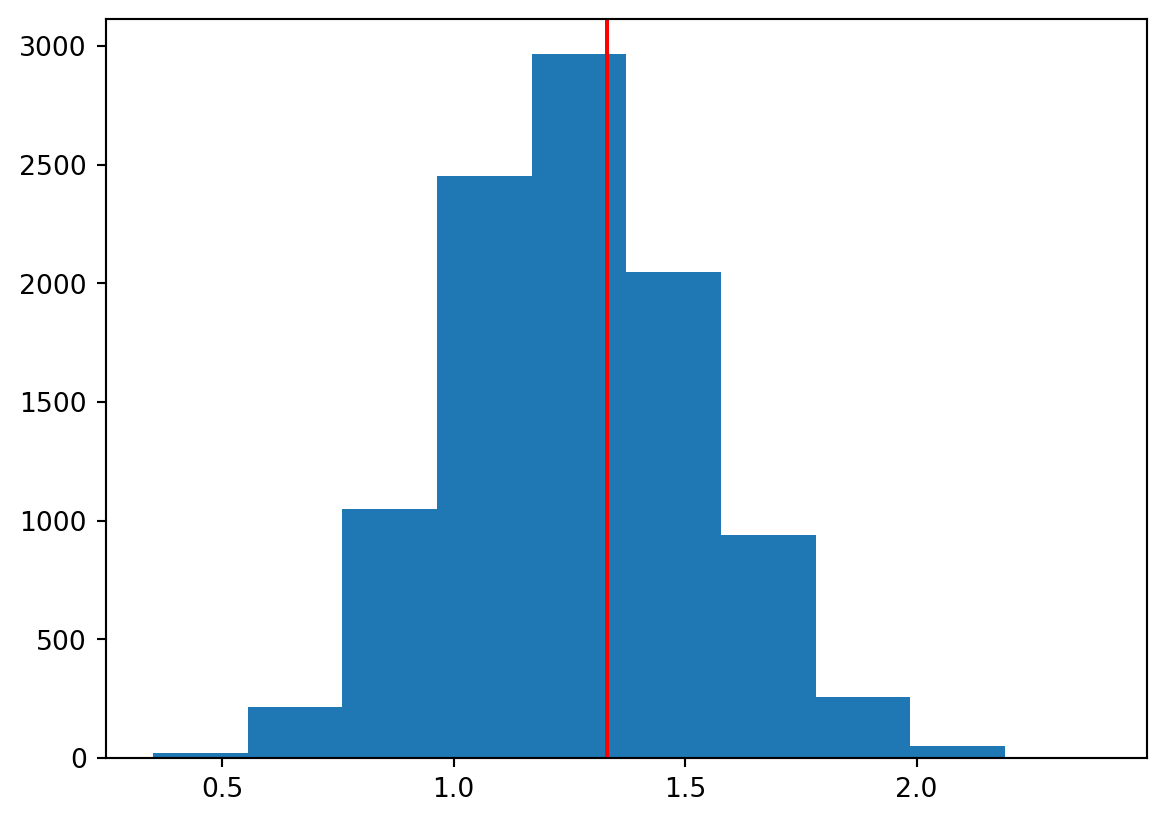
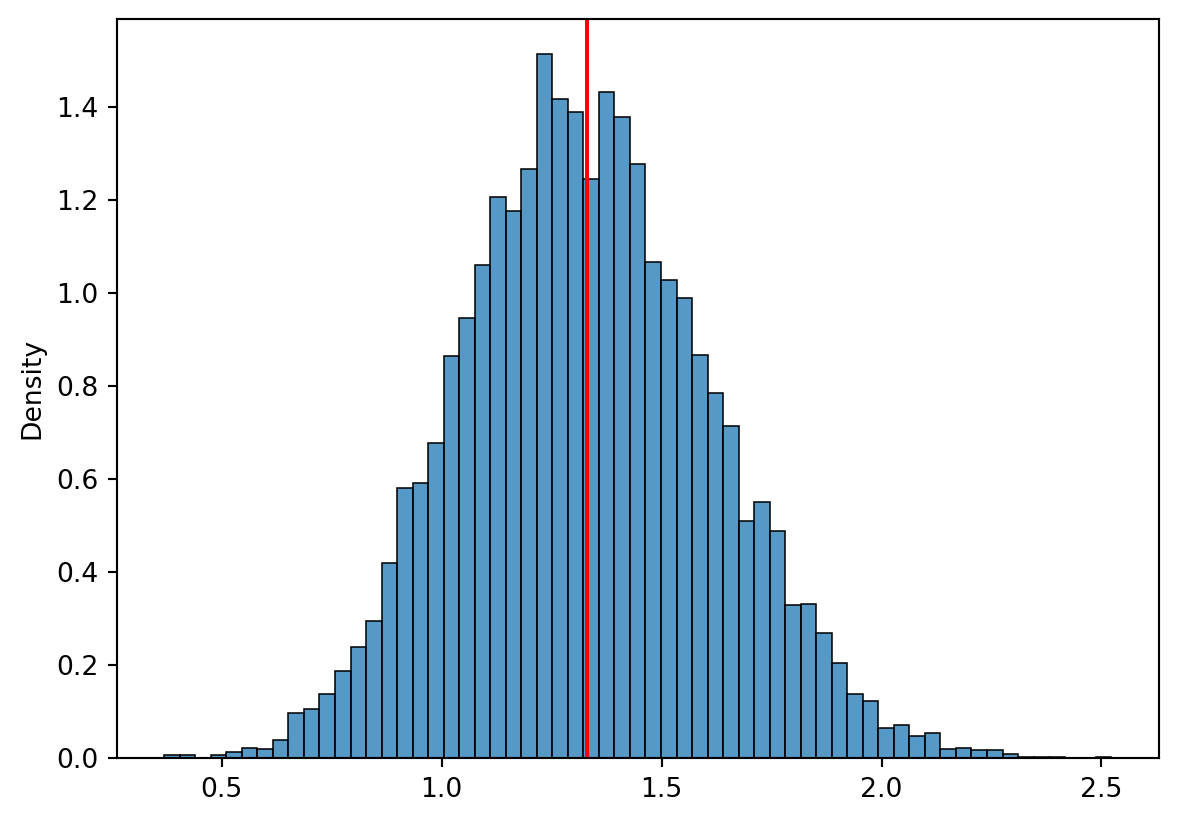
hw4

diff --git a/docs/posts/hw4/index.html b/docs/posts/hw4/index.html
@@ -185,12 +185,19 @@ pre > code.sourceCode > span > a:first-child::before { text-decoration: underlin
   <ul>
   <li><a href="#표본-분산-계산-시-왜-n-1로-나누는지-알아보도록-하겠습니다." id="toc-표본-분산-계산-시-왜-n-1로-나누는지-알아보도록-하겠습니다." class="nav-link active" data-scroll-target="#표본-분산-계산-시-왜-n-1로-나누는지-알아보도록-하겠습니다.">표본 분산 계산 시 왜 n-1로 나누는지 알아보도록 하겠습니다.</a>
   <ul class="collapse">
-  <li><a href="#균일분포-3-7에서-20개의-표본을-뽑아서-분산을-2가지-방법으로-추정해보세요." id="toc-균일분포-3-7에서-20개의-표본을-뽑아서-분산을-2가지-방법으로-추정해보세요." class="nav-link" data-scroll-target="#균일분포-3-7에서-20개의-표본을-뽑아서-분산을-2가지-방법으로-추정해보세요.">균일분포 (3, 7)에서 20개의 표본을 뽑아서 분산을 2가지 방법으로 추정해보세요.</a>
+  <li><a href="#균일분포-3-7에서-20개의-표본을-뽑아서-분산을-2가지-방법으로-추정해보세요.-n으로-구하는-방법-n-1로-구하는-방법" id="toc-균일분포-3-7에서-20개의-표본을-뽑아서-분산을-2가지-방법으로-추정해보세요.-n으로-구하는-방법-n-1로-구하는-방법" class="nav-link" data-scroll-target="#균일분포-3-7에서-20개의-표본을-뽑아서-분산을-2가지-방법으로-추정해보세요.-n으로-구하는-방법-n-1로-구하는-방법">균일분포 (3, 7)에서 20개의 표본을 뽑아서 분산을 2가지 방법으로 추정해보세요. (n으로 구하는 방법, n-1로 구하는 방법)</a>
   <ul class="collapse">
+  <li><a href="#참고-분산을-구하는-함수-3가지" id="toc-참고-분산을-구하는-함수-3가지" class="nav-link" data-scroll-target="#참고-분산을-구하는-함수-3가지">참고 : 분산을 구하는 함수 3가지</a></li>
   <li><a href="#n-1로-나눈-것을-s_2-n으로-나눈-것을-k_2로-정의하고-s_2의-분포와-k_2의-분포를-그려주세요-10000개-사용" id="toc-n-1로-나눈-것을-s_2-n으로-나눈-것을-k_2로-정의하고-s_2의-분포와-k_2의-분포를-그려주세요-10000개-사용" class="nav-link" data-scroll-target="#n-1로-나눈-것을-s_2-n으로-나눈-것을-k_2로-정의하고-s_2의-분포와-k_2의-분포를-그려주세요-10000개-사용">1. n-1로 나눈 것을 s_2, n으로 나눈 것을 k_2로 정의하고, s_2의 분포와 k_2의 분포를 그려주세요! (10000개 사용)</a></li>
   <li><a href="#각-분포-그래프에-모분산의-위치에-녹색-막대를-그려주세요." id="toc-각-분포-그래프에-모분산의-위치에-녹색-막대를-그려주세요." class="nav-link" data-scroll-target="#각-분포-그래프에-모분산의-위치에-녹색-막대를-그려주세요.">2. 각 분포 그래프에 모분산의 위치에 녹색 막대를 그려주세요.</a></li>
-  <li><a href="#결과를-살펴보고-왜-n-1로-나눈-것을-분산을-추정하는-지표로-사용하는-것이-타당한지-써주세요" id="toc-결과를-살펴보고-왜-n-1로-나눈-것을-분산을-추정하는-지표로-사용하는-것이-타당한지-써주세요" class="nav-link" data-scroll-target="#결과를-살펴보고-왜-n-1로-나눈-것을-분산을-추정하는-지표로-사용하는-것이-타당한지-써주세요">3. 결과를 살펴보고, 왜 n-1로 나눈 것을 분산을 추정하는 지표로 사용하는 것이 타당한지 써주세요!</a></li>
   </ul></li>
+  </ul></li>
+  <li><a href="#section" id="toc-section" class="nav-link" data-scroll-target="#section"></a></li>
+  <li><a href="#section-1" id="toc-section-1" class="nav-link" data-scroll-target="#section-1"></a></li>
+  <li><a href="#section-2" id="toc-section-2" class="nav-link" data-scroll-target="#section-2"></a></li>
+  <li><a href="#section-3" id="toc-section-3" class="nav-link" data-scroll-target="#section-3"></a>
+  <ul class="collapse">
+  <li><a href="#결과를-살펴보고-왜-n-1로-나눈-것을-분산을-추정하는-지표로-사용하는-것이-타당한지-써주세요" id="toc-결과를-살펴보고-왜-n-1로-나눈-것을-분산을-추정하는-지표로-사용하는-것이-타당한지-써주세요" class="nav-link" data-scroll-target="#결과를-살펴보고-왜-n-1로-나눈-것을-분산을-추정하는-지표로-사용하는-것이-타당한지-써주세요">3. 결과를 살펴보고, 왜 n-1로 나눈 것을 분산을 추정하는 지표로 사용하는 것이 타당한지 써주세요!</a></li>
   </ul></li>
   </ul>
 </nav>
@@ -204,72 +211,198 @@ pre > code.sourceCode > span > a:first-child::before { text-decoration: underlin
 
 <section id="표본-분산-계산-시-왜-n-1로-나누는지-알아보도록-하겠습니다." class="level1">
 <h1>표본 분산 계산 시 왜 n-1로 나누는지 알아보도록 하겠습니다.</h1>
-<section id="균일분포-3-7에서-20개의-표본을-뽑아서-분산을-2가지-방법으로-추정해보세요." class="level2">
-<h2 class="anchored" data-anchor-id="균일분포-3-7에서-20개의-표본을-뽑아서-분산을-2가지-방법으로-추정해보세요.">균일분포 (3, 7)에서 20개의 표본을 뽑아서 분산을 2가지 방법으로 추정해보세요.</h2>
+<section id="균일분포-3-7에서-20개의-표본을-뽑아서-분산을-2가지-방법으로-추정해보세요.-n으로-구하는-방법-n-1로-구하는-방법" class="level2">
+<h2 class="anchored" data-anchor-id="균일분포-3-7에서-20개의-표본을-뽑아서-분산을-2가지-방법으로-추정해보세요.-n으로-구하는-방법-n-1로-구하는-방법">균일분포 (3, 7)에서 20개의 표본을 뽑아서 분산을 2가지 방법으로 추정해보세요. (n으로 구하는 방법, n-1로 구하는 방법)</h2>
+<section id="참고-분산을-구하는-함수-3가지" class="level3">
+<h3 class="anchored" data-anchor-id="참고-분산을-구하는-함수-3가지">참고 : 분산을 구하는 함수 3가지</h3>
+<div id="e30a8a75" class="cell" data-execution_count="1">
+<div class="sourceCode cell-code" id="cb1"><pre class="sourceCode python code-with-copy"><code class="sourceCode python"><span id="cb1-1"><a href="#cb1-1" aria-hidden="true" tabindex="-1"></a><span class="im">from</span> scipy.stats <span class="im">import</span> uniform</span>
+<span id="cb1-2"><a href="#cb1-2" aria-hidden="true" tabindex="-1"></a><span class="im">import</span> numpy <span class="im">as</span> np</span>
+<span id="cb1-3"><a href="#cb1-3" aria-hidden="true" tabindex="-1"></a>x <span class="op">=</span> uniform.rvs(loc<span class="op">=</span><span class="dv">3</span>, scale<span class="op">=</span><span class="dv">4</span>, size<span class="op">=</span><span class="dv">20</span>)</span>
+<span id="cb1-4"><a href="#cb1-4" aria-hidden="true" tabindex="-1"></a>x_bar <span class="op">=</span> np.mean(x)</span>
+<span id="cb1-5"><a href="#cb1-5" aria-hidden="true" tabindex="-1"></a>s_2_1 <span class="op">=</span> <span class="bu">sum</span>((x<span class="op">-</span>x_bar)<span class="op">**</span><span class="dv">2</span>)<span class="op">/</span>(<span class="bu">len</span>(x)<span class="op">-</span><span class="dv">1</span>)  <span class="co"># n-1로 표본 분산 구하는 방법1</span></span>
+<span id="cb1-6"><a href="#cb1-6" aria-hidden="true" tabindex="-1"></a>s_2_2 <span class="op">=</span> x.var(ddof<span class="op">=</span><span class="dv">1</span>)  <span class="co"># n-1로 표본 분산 구하는 방법2</span></span>
+<span id="cb1-7"><a href="#cb1-7" aria-hidden="true" tabindex="-1"></a>s_2_3 <span class="op">=</span> np.var(x, ddof<span class="op">=</span><span class="dv">1</span>)  <span class="co"># n-1로 표본 분산 구하는 방법3</span></span>
+<span id="cb1-8"><a href="#cb1-8" aria-hidden="true" tabindex="-1"></a></span>
+<span id="cb1-9"><a href="#cb1-9" aria-hidden="true" tabindex="-1"></a><span class="bu">print</span>(<span class="st">"s_2_1 : "</span>,s_2_1)</span>
+<span id="cb1-10"><a href="#cb1-10" aria-hidden="true" tabindex="-1"></a><span class="bu">print</span>(<span class="st">"s_2_2 : "</span>,s_2_2)</span>
+<span id="cb1-11"><a href="#cb1-11" aria-hidden="true" tabindex="-1"></a><span class="bu">print</span>(<span class="st">"s_2_3 : "</span>,s_2_3)</span>
+<span id="cb1-12"><a href="#cb1-12" aria-hidden="true" tabindex="-1"></a></span>
+<span id="cb1-13"><a href="#cb1-13" aria-hidden="true" tabindex="-1"></a>k_2_1 <span class="op">=</span> <span class="bu">sum</span>((x<span class="op">-</span>x_bar)<span class="op">**</span><span class="dv">2</span>)<span class="op">/</span><span class="bu">len</span>(x)  <span class="co"># n로 표본 분산 구하는 방법1</span></span>
+<span id="cb1-14"><a href="#cb1-14" aria-hidden="true" tabindex="-1"></a>k_2_2 <span class="op">=</span> x.var()  <span class="co"># n로 표본 분산 구하는 방법2</span></span>
+<span id="cb1-15"><a href="#cb1-15" aria-hidden="true" tabindex="-1"></a>k_2_3 <span class="op">=</span> np.var(x)  <span class="co"># n로 표본 분산 구하는 방법3</span></span>
+<span id="cb1-16"><a href="#cb1-16" aria-hidden="true" tabindex="-1"></a></span>
+<span id="cb1-17"><a href="#cb1-17" aria-hidden="true" tabindex="-1"></a><span class="bu">print</span>(<span class="st">"k_2_1 : "</span>,k_2_1)</span>
+<span id="cb1-18"><a href="#cb1-18" aria-hidden="true" tabindex="-1"></a><span class="bu">print</span>(<span class="st">"k_2_2 : "</span>,k_2_2)</span>
+<span id="cb1-19"><a href="#cb1-19" aria-hidden="true" tabindex="-1"></a><span class="bu">print</span>(<span class="st">"k_2_3 : "</span>,k_2_3)</span></code><button title="Copy to Clipboard" class="code-copy-button"><i class="bi"></i></button></pre></div>
+<div class="cell-output cell-output-stdout">
+<pre><code>s_2_1 :  1.641466623473874
+s_2_2 :  1.641466623473874
+s_2_3 :  1.641466623473874
+k_2_1 :  1.5593932923001803
+k_2_2 :  1.55939329230018
+k_2_3 :  1.55939329230018</code></pre>
+</div>
+</div>
+</section>
 <section id="n-1로-나눈-것을-s_2-n으로-나눈-것을-k_2로-정의하고-s_2의-분포와-k_2의-분포를-그려주세요-10000개-사용" class="level3">
 <h3 class="anchored" data-anchor-id="n-1로-나눈-것을-s_2-n으로-나눈-것을-k_2로-정의하고-s_2의-분포와-k_2의-분포를-그려주세요-10000개-사용">1. n-1로 나눈 것을 s_2, n으로 나눈 것을 k_2로 정의하고, s_2의 분포와 k_2의 분포를 그려주세요! (10000개 사용)</h3>
 </section>
 <section id="각-분포-그래프에-모분산의-위치에-녹색-막대를-그려주세요." class="level3">
 <h3 class="anchored" data-anchor-id="각-분포-그래프에-모분산의-위치에-녹색-막대를-그려주세요.">2. 각 분포 그래프에 모분산의 위치에 녹색 막대를 그려주세요.</h3>
-<div id="7754c6f1" class="cell" data-execution_count="1">
-<div class="sourceCode cell-code" id="cb1"><pre class="sourceCode python code-with-copy"><code class="sourceCode python"><span id="cb1-1"><a href="#cb1-1" aria-hidden="true" tabindex="-1"></a><span class="im">from</span> scipy.stats <span class="im">import</span> uniform</span>
-<span id="cb1-2"><a href="#cb1-2" aria-hidden="true" tabindex="-1"></a><span class="im">import</span> numpy <span class="im">as</span> np</span>
-<span id="cb1-3"><a href="#cb1-3" aria-hidden="true" tabindex="-1"></a>x <span class="op">=</span> uniform.rvs(loc<span class="op">=</span><span class="dv">3</span>, scale<span class="op">=</span><span class="dv">4</span>, size<span class="op">=</span><span class="dv">20</span>)</span>
-<span id="cb1-4"><a href="#cb1-4" aria-hidden="true" tabindex="-1"></a>x_bar <span class="op">=</span> np.mean(x)</span>
-<span id="cb1-5"><a href="#cb1-5" aria-hidden="true" tabindex="-1"></a>s_2 <span class="op">=</span> <span class="bu">sum</span>((x<span class="op">-</span>x_bar)<span class="op">**</span><span class="dv">2</span>)<span class="op">/</span>(<span class="bu">len</span>(x)<span class="op">-</span><span class="dv">1</span>)</span>
-<span id="cb1-6"><a href="#cb1-6" aria-hidden="true" tabindex="-1"></a><span class="bu">print</span>(<span class="st">"s_2 : "</span>,s_2)</span>
-<span id="cb1-7"><a href="#cb1-7" aria-hidden="true" tabindex="-1"></a></span>
-<span id="cb1-8"><a href="#cb1-8" aria-hidden="true" tabindex="-1"></a>k_2 <span class="op">=</span> <span class="bu">sum</span>((x<span class="op">-</span>x_bar)<span class="op">**</span><span class="dv">2</span>)<span class="op">/</span><span class="bu">len</span>(x)</span>
-<span id="cb1-9"><a href="#cb1-9" aria-hidden="true" tabindex="-1"></a><span class="bu">print</span>(<span class="st">"k_2 : "</span>,k_2)</span></code><button title="Copy to Clipboard" class="code-copy-button"><i class="bi"></i></button></pre></div>
-<div class="cell-output cell-output-stdout">
-<pre><code>s_2 :  1.641466623473874
-k_2 :  1.5593932923001803</code></pre>
-</div>
-</div>
-<div id="48e432b2" class="cell" data-execution_count="2">
+<section id="n-1로-표본-분산-구하는-방법1" class="level4">
+<h4 class="anchored" data-anchor-id="n-1로-표본-분산-구하는-방법1">n-1로 표본 분산 구하는 방법1</h4>
+<div id="be6a4a36" class="cell" data-execution_count="2">
 <div class="sourceCode cell-code" id="cb3"><pre class="sourceCode python code-with-copy"><code class="sourceCode python"><span id="cb3-1"><a href="#cb3-1" aria-hidden="true" tabindex="-1"></a>np.random.seed(<span class="dv">20240729</span>)</span>
 <span id="cb3-2"><a href="#cb3-2" aria-hidden="true" tabindex="-1"></a>x <span class="op">=</span> uniform.rvs(loc<span class="op">=</span><span class="dv">3</span>, scale<span class="op">=</span><span class="dv">4</span>, size<span class="op">=</span><span class="dv">10000</span><span class="op">*</span><span class="dv">20</span>).reshape(<span class="op">-</span><span class="dv">1</span>,<span class="dv">20</span>)</span>
-<span id="cb3-3"><a href="#cb3-3" aria-hidden="true" tabindex="-1"></a>s_2 <span class="op">=</span> x.var(axis<span class="op">=</span><span class="dv">1</span>, ddof<span class="op">=</span><span class="dv">1</span>)</span>
-<span id="cb3-4"><a href="#cb3-4" aria-hidden="true" tabindex="-1"></a>a<span class="op">=</span>x.var()</span>
+<span id="cb3-3"><a href="#cb3-3" aria-hidden="true" tabindex="-1"></a>s_2 <span class="op">=</span> ((x<span class="op">-</span> np.repeat(x.mean(axis<span class="op">=</span><span class="dv">1</span>) ,<span class="dv">20</span>).reshape(<span class="op">-</span><span class="dv">1</span>,<span class="dv">20</span>))<span class="op">**</span><span class="dv">2</span>).<span class="bu">sum</span>(axis<span class="op">=</span><span class="dv">1</span>)<span class="op">/</span>(<span class="dv">20</span> <span class="op">-</span><span class="dv">1</span>)</span>
+<span id="cb3-4"><a href="#cb3-4" aria-hidden="true" tabindex="-1"></a>population_variance <span class="op">=</span> ((x<span class="op">-</span>x.mean() )<span class="op">**</span><span class="dv">2</span> ).<span class="bu">sum</span>() <span class="op">/</span>(<span class="dv">10000</span><span class="op">*</span><span class="dv">20</span>)</span>
 <span id="cb3-5"><a href="#cb3-5" aria-hidden="true" tabindex="-1"></a></span>
 <span id="cb3-6"><a href="#cb3-6" aria-hidden="true" tabindex="-1"></a><span class="im">import</span> matplotlib.pyplot <span class="im">as</span> plt</span>
-<span id="cb3-7"><a href="#cb3-7" aria-hidden="true" tabindex="-1"></a>plt.clf()</span>
-<span id="cb3-8"><a href="#cb3-8" aria-hidden="true" tabindex="-1"></a>plt.hist(s_2)</span>
-<span id="cb3-9"><a href="#cb3-9" aria-hidden="true" tabindex="-1"></a>plt.axvline(x<span class="op">=</span>a, color<span class="op">=</span><span class="st">'red'</span>)</span>
-<span id="cb3-10"><a href="#cb3-10" aria-hidden="true" tabindex="-1"></a>plt.show()</span></code><button title="Copy to Clipboard" class="code-copy-button"><i class="bi"></i></button></pre></div>
+<span id="cb3-7"><a href="#cb3-7" aria-hidden="true" tabindex="-1"></a><span class="im">import</span> seaborn <span class="im">as</span> sns</span>
+<span id="cb3-8"><a href="#cb3-8" aria-hidden="true" tabindex="-1"></a>plt.clf()</span>
+<span id="cb3-9"><a href="#cb3-9" aria-hidden="true" tabindex="-1"></a>sns.histplot(s_2, stat<span class="op">=</span><span class="st">'density'</span>)</span>
+<span id="cb3-10"><a href="#cb3-10" aria-hidden="true" tabindex="-1"></a>plt.axvline(x<span class="op">=</span>population_variance, color<span class="op">=</span><span class="st">'red'</span>)</span>
+<span id="cb3-11"><a href="#cb3-11" aria-hidden="true" tabindex="-1"></a>plt.show()</span></code><button title="Copy to Clipboard" class="code-copy-button"><i class="bi"></i></button></pre></div>
 <div class="cell-output cell-output-display">
 <div>
 <figure class="figure">
-<p><img src="index_files/figure-html/cell-3-output-1.png" width="583" height="411" class="figure-img"></p>
-</figure>
-</div>
-</div>
-</div>
-<div id="fd29b20b" class="cell" data-execution_count="3">
-<div class="sourceCode cell-code" id="cb4"><pre class="sourceCode python code-with-copy"><code class="sourceCode python"><span id="cb4-1"><a href="#cb4-1" aria-hidden="true" tabindex="-1"></a>np.random.seed(<span class="dv">20240729</span>)</span>
-<span id="cb4-2"><a href="#cb4-2" aria-hidden="true" tabindex="-1"></a>y <span class="op">=</span> uniform.rvs(loc<span class="op">=</span><span class="dv">3</span>, scale<span class="op">=</span><span class="dv">4</span>, size<span class="op">=</span><span class="dv">10000</span><span class="op">*</span><span class="dv">20</span>).reshape(<span class="op">-</span><span class="dv">1</span>,<span class="dv">20</span>)</span>
-<span id="cb4-3"><a href="#cb4-3" aria-hidden="true" tabindex="-1"></a>k_2 <span class="op">=</span> y.var(axis<span class="op">=</span><span class="dv">1</span>, ddof<span class="op">=</span><span class="dv">0</span>)</span>
-<span id="cb4-4"><a href="#cb4-4" aria-hidden="true" tabindex="-1"></a>b<span class="op">=</span>y.var()</span>
-<span id="cb4-5"><a href="#cb4-5" aria-hidden="true" tabindex="-1"></a></span>
-<span id="cb4-6"><a href="#cb4-6" aria-hidden="true" tabindex="-1"></a>plt.clf()</span>
-<span id="cb4-7"><a href="#cb4-7" aria-hidden="true" tabindex="-1"></a>plt.hist(k_2)</span>
-<span id="cb4-8"><a href="#cb4-8" aria-hidden="true" tabindex="-1"></a>plt.axvline(x<span class="op">=</span>b, color<span class="op">=</span><span class="st">'red'</span>)</span>
-<span id="cb4-9"><a href="#cb4-9" aria-hidden="true" tabindex="-1"></a>plt.show()</span></code><button title="Copy to Clipboard" class="code-copy-button"><i class="bi"></i></button></pre></div>
-<div class="cell-output cell-output-display">
-<div>
-<figure class="figure">
-<p><img src="index_files/figure-html/cell-4-output-1.png" width="583" height="411" class="figure-img"></p>
+<p><img src="index_files/figure-html/cell-3-output-1.png" width="589" height="411" class="figure-img"></p>
 </figure>
 </div>
 </div>
 </div>
 </section>
+<section id="n-1로-표본-분산-구하는-방법2" class="level4">
+<h4 class="anchored" data-anchor-id="n-1로-표본-분산-구하는-방법2">n-1로 표본 분산 구하는 방법2</h4>
+<div id="90d583a3" class="cell" data-execution_count="3">
+<div class="sourceCode cell-code" id="cb4"><pre class="sourceCode python code-with-copy"><code class="sourceCode python"><span id="cb4-1"><a href="#cb4-1" aria-hidden="true" tabindex="-1"></a>np.random.seed(<span class="dv">20240729</span>)</span>
+<span id="cb4-2"><a href="#cb4-2" aria-hidden="true" tabindex="-1"></a>x <span class="op">=</span> uniform.rvs(loc<span class="op">=</span><span class="dv">3</span>, scale<span class="op">=</span><span class="dv">4</span>, size<span class="op">=</span><span class="dv">10000</span><span class="op">*</span><span class="dv">20</span>).reshape(<span class="op">-</span><span class="dv">1</span>,<span class="dv">20</span>)</span>
+<span id="cb4-3"><a href="#cb4-3" aria-hidden="true" tabindex="-1"></a>s_2 <span class="op">=</span> x.var(axis<span class="op">=</span><span class="dv">1</span>, ddof<span class="op">=</span><span class="dv">1</span>)</span>
+<span id="cb4-4"><a href="#cb4-4" aria-hidden="true" tabindex="-1"></a></span>
+<span id="cb4-5"><a href="#cb4-5" aria-hidden="true" tabindex="-1"></a><span class="im">import</span> matplotlib.pyplot <span class="im">as</span> plt</span>
+<span id="cb4-6"><a href="#cb4-6" aria-hidden="true" tabindex="-1"></a><span class="im">import</span> seaborn <span class="im">as</span> sns</span>
+<span id="cb4-7"><a href="#cb4-7" aria-hidden="true" tabindex="-1"></a>plt.clf()</span>
+<span id="cb4-8"><a href="#cb4-8" aria-hidden="true" tabindex="-1"></a>sns.histplot(s_2, stat<span class="op">=</span><span class="st">'density'</span>)</span>
+<span id="cb4-9"><a href="#cb4-9" aria-hidden="true" tabindex="-1"></a>plt.axvline(x<span class="op">=</span>x.var(), color<span class="op">=</span><span class="st">'red'</span>)</span>
+<span id="cb4-10"><a href="#cb4-10" aria-hidden="true" tabindex="-1"></a>plt.show()</span></code><button title="Copy to Clipboard" class="code-copy-button"><i class="bi"></i></button></pre></div>
+<div class="cell-output cell-output-display">
+<div>
+<figure class="figure">
+<p><img src="index_files/figure-html/cell-4-output-1.png" width="589" height="411" class="figure-img"></p>
+</figure>
+</div>
+</div>
+</div>
+</section>
+<section id="n-1로-표본-분산-구하는-방법3" class="level4">
+<h4 class="anchored" data-anchor-id="n-1로-표본-분산-구하는-방법3">n-1로 표본 분산 구하는 방법3</h4>
+<div id="d64769ba" class="cell" data-execution_count="4">
+<div class="sourceCode cell-code" id="cb5"><pre class="sourceCode python code-with-copy"><code class="sourceCode python"><span id="cb5-1"><a href="#cb5-1" aria-hidden="true" tabindex="-1"></a>np.random.seed(<span class="dv">20240729</span>)</span>
+<span id="cb5-2"><a href="#cb5-2" aria-hidden="true" tabindex="-1"></a>x <span class="op">=</span> uniform.rvs(loc<span class="op">=</span><span class="dv">3</span>, scale<span class="op">=</span><span class="dv">4</span>, size<span class="op">=</span><span class="dv">10000</span><span class="op">*</span><span class="dv">20</span>).reshape(<span class="op">-</span><span class="dv">1</span>,<span class="dv">20</span>)</span>
+<span id="cb5-3"><a href="#cb5-3" aria-hidden="true" tabindex="-1"></a>s_2 <span class="op">=</span> np.var(x, axis<span class="op">=</span><span class="dv">1</span> ,ddof<span class="op">=</span><span class="dv">1</span>)</span>
+<span id="cb5-4"><a href="#cb5-4" aria-hidden="true" tabindex="-1"></a></span>
+<span id="cb5-5"><a href="#cb5-5" aria-hidden="true" tabindex="-1"></a><span class="im">import</span> matplotlib.pyplot <span class="im">as</span> plt</span>
+<span id="cb5-6"><a href="#cb5-6" aria-hidden="true" tabindex="-1"></a><span class="im">import</span> seaborn <span class="im">as</span> sns</span>
+<span id="cb5-7"><a href="#cb5-7" aria-hidden="true" tabindex="-1"></a>plt.clf()</span>
+<span id="cb5-8"><a href="#cb5-8" aria-hidden="true" tabindex="-1"></a>sns.histplot(s_2, stat<span class="op">=</span><span class="st">'density'</span>)</span>
+<span id="cb5-9"><a href="#cb5-9" aria-hidden="true" tabindex="-1"></a>plt.axvline(x<span class="op">=</span>np.var(x ,ddof<span class="op">=</span><span class="dv">1</span>), color<span class="op">=</span><span class="st">'red'</span>)</span>
+<span id="cb5-10"><a href="#cb5-10" aria-hidden="true" tabindex="-1"></a>plt.show()</span></code><button title="Copy to Clipboard" class="code-copy-button"><i class="bi"></i></button></pre></div>
+<div class="cell-output cell-output-display">
+<div>
+<figure class="figure">
+<p><img src="index_files/figure-html/cell-5-output-1.png" width="589" height="411" class="figure-img"></p>
+</figure>
+</div>
+</div>
+</div>
+</section>
+</section>
+</section>
+</section>
+<section id="section" class="level1">
+<h1></h1>
+</section>
+<section id="section-1" class="level1">
+<h1></h1>
+<section id="n으로-표본-분산-구하는-방법1" class="level4">
+<h4 class="anchored" data-anchor-id="n으로-표본-분산-구하는-방법1">n으로 표본 분산 구하는 방법1</h4>
+<div id="6dd02b01" class="cell" data-execution_count="5">
+<div class="sourceCode cell-code" id="cb6"><pre class="sourceCode python code-with-copy"><code class="sourceCode python"><span id="cb6-1"><a href="#cb6-1" aria-hidden="true" tabindex="-1"></a>np.random.seed(<span class="dv">20240729</span>)</span>
+<span id="cb6-2"><a href="#cb6-2" aria-hidden="true" tabindex="-1"></a>x <span class="op">=</span> uniform.rvs(loc<span class="op">=</span><span class="dv">3</span>, scale<span class="op">=</span><span class="dv">4</span>, size<span class="op">=</span><span class="dv">10000</span><span class="op">*</span><span class="dv">20</span>).reshape(<span class="op">-</span><span class="dv">1</span>,<span class="dv">20</span>)</span>
+<span id="cb6-3"><a href="#cb6-3" aria-hidden="true" tabindex="-1"></a>k_2 <span class="op">=</span> ((x<span class="op">-</span> np.repeat(x.mean(axis<span class="op">=</span><span class="dv">1</span>) ,<span class="dv">20</span>).reshape(<span class="op">-</span><span class="dv">1</span>,<span class="dv">20</span>))<span class="op">**</span><span class="dv">2</span>).<span class="bu">sum</span>(axis<span class="op">=</span><span class="dv">1</span>)<span class="op">/</span><span class="dv">20</span></span>
+<span id="cb6-4"><a href="#cb6-4" aria-hidden="true" tabindex="-1"></a>population_variance <span class="op">=</span> ((x<span class="op">-</span>x.mean() )<span class="op">**</span><span class="dv">2</span> ).<span class="bu">sum</span>() <span class="op">/</span>(<span class="dv">10000</span><span class="op">*</span><span class="dv">20</span>)</span>
+<span id="cb6-5"><a href="#cb6-5" aria-hidden="true" tabindex="-1"></a></span>
+<span id="cb6-6"><a href="#cb6-6" aria-hidden="true" tabindex="-1"></a><span class="im">import</span> matplotlib.pyplot <span class="im">as</span> plt</span>
+<span id="cb6-7"><a href="#cb6-7" aria-hidden="true" tabindex="-1"></a><span class="im">import</span> seaborn <span class="im">as</span> sns</span>
+<span id="cb6-8"><a href="#cb6-8" aria-hidden="true" tabindex="-1"></a>plt.clf()</span>
+<span id="cb6-9"><a href="#cb6-9" aria-hidden="true" tabindex="-1"></a>sns.histplot(k_2, stat<span class="op">=</span><span class="st">'density'</span>)</span>
+<span id="cb6-10"><a href="#cb6-10" aria-hidden="true" tabindex="-1"></a>plt.axvline(x<span class="op">=</span>population_variance, color<span class="op">=</span><span class="st">'red'</span>)</span>
+<span id="cb6-11"><a href="#cb6-11" aria-hidden="true" tabindex="-1"></a>plt.show()</span></code><button title="Copy to Clipboard" class="code-copy-button"><i class="bi"></i></button></pre></div>
+<div class="cell-output cell-output-display">
+<div>
+<figure class="figure">
+<p><img src="index_files/figure-html/cell-6-output-1.png" width="589" height="411" class="figure-img"></p>
+</figure>
+</div>
+</div>
+</div>
+</section>
+<section id="n으로-표본-분산-구하는-방법2" class="level4">
+<h4 class="anchored" data-anchor-id="n으로-표본-분산-구하는-방법2">n으로 표본 분산 구하는 방법2</h4>
+<div id="63eb9303" class="cell" data-execution_count="6">
+<div class="sourceCode cell-code" id="cb7"><pre class="sourceCode python code-with-copy"><code class="sourceCode python"><span id="cb7-1"><a href="#cb7-1" aria-hidden="true" tabindex="-1"></a>np.random.seed(<span class="dv">20240729</span>)</span>
+<span id="cb7-2"><a href="#cb7-2" aria-hidden="true" tabindex="-1"></a>x <span class="op">=</span> uniform.rvs(loc<span class="op">=</span><span class="dv">3</span>, scale<span class="op">=</span><span class="dv">4</span>, size<span class="op">=</span><span class="dv">10000</span><span class="op">*</span><span class="dv">20</span>).reshape(<span class="op">-</span><span class="dv">1</span>,<span class="dv">20</span>)</span>
+<span id="cb7-3"><a href="#cb7-3" aria-hidden="true" tabindex="-1"></a>k_2 <span class="op">=</span> x.var(axis<span class="op">=</span><span class="dv">1</span>, ddof<span class="op">=</span><span class="dv">0</span>)</span>
+<span id="cb7-4"><a href="#cb7-4" aria-hidden="true" tabindex="-1"></a></span>
+<span id="cb7-5"><a href="#cb7-5" aria-hidden="true" tabindex="-1"></a><span class="im">import</span> matplotlib.pyplot <span class="im">as</span> plt</span>
+<span id="cb7-6"><a href="#cb7-6" aria-hidden="true" tabindex="-1"></a><span class="im">import</span> seaborn <span class="im">as</span> sns</span>
+<span id="cb7-7"><a href="#cb7-7" aria-hidden="true" tabindex="-1"></a>plt.clf()</span>
+<span id="cb7-8"><a href="#cb7-8" aria-hidden="true" tabindex="-1"></a>sns.histplot(k_2, stat<span class="op">=</span><span class="st">'density'</span>)</span>
+<span id="cb7-9"><a href="#cb7-9" aria-hidden="true" tabindex="-1"></a>plt.axvline(x<span class="op">=</span>x.var(), color<span class="op">=</span><span class="st">'red'</span>)</span>
+<span id="cb7-10"><a href="#cb7-10" aria-hidden="true" tabindex="-1"></a>plt.show()</span></code><button title="Copy to Clipboard" class="code-copy-button"><i class="bi"></i></button></pre></div>
+<div class="cell-output cell-output-display">
+<div>
+<figure class="figure">
+<p><img src="index_files/figure-html/cell-7-output-1.png" width="589" height="411" class="figure-img"></p>
+</figure>
+</div>
+</div>
+</div>
+</section>
+<section id="n으로-표본-분산-구하는-방법3" class="level4">
+<h4 class="anchored" data-anchor-id="n으로-표본-분산-구하는-방법3">n으로 표본 분산 구하는 방법3</h4>
+<div id="daa7b1e7" class="cell" data-execution_count="7">
+<div class="sourceCode cell-code" id="cb8"><pre class="sourceCode python code-with-copy"><code class="sourceCode python"><span id="cb8-1"><a href="#cb8-1" aria-hidden="true" tabindex="-1"></a>np.random.seed(<span class="dv">20240729</span>)</span>
+<span id="cb8-2"><a href="#cb8-2" aria-hidden="true" tabindex="-1"></a>x <span class="op">=</span> uniform.rvs(loc<span class="op">=</span><span class="dv">3</span>, scale<span class="op">=</span><span class="dv">4</span>, size<span class="op">=</span><span class="dv">10000</span><span class="op">*</span><span class="dv">20</span>).reshape(<span class="op">-</span><span class="dv">1</span>,<span class="dv">20</span>)</span>
+<span id="cb8-3"><a href="#cb8-3" aria-hidden="true" tabindex="-1"></a>s_2 <span class="op">=</span> np.var(x, axis<span class="op">=</span><span class="dv">1</span> ,ddof<span class="op">=</span><span class="dv">0</span>)</span>
+<span id="cb8-4"><a href="#cb8-4" aria-hidden="true" tabindex="-1"></a></span>
+<span id="cb8-5"><a href="#cb8-5" aria-hidden="true" tabindex="-1"></a><span class="im">import</span> matplotlib.pyplot <span class="im">as</span> plt</span>
+<span id="cb8-6"><a href="#cb8-6" aria-hidden="true" tabindex="-1"></a><span class="im">import</span> seaborn <span class="im">as</span> sns</span>
+<span id="cb8-7"><a href="#cb8-7" aria-hidden="true" tabindex="-1"></a>plt.clf()</span>
+<span id="cb8-8"><a href="#cb8-8" aria-hidden="true" tabindex="-1"></a>sns.histplot(s_2, stat<span class="op">=</span><span class="st">'density'</span>)</span>
+<span id="cb8-9"><a href="#cb8-9" aria-hidden="true" tabindex="-1"></a>plt.axvline(x<span class="op">=</span>np.var(x ,ddof<span class="op">=</span><span class="dv">0</span>), color<span class="op">=</span><span class="st">'red'</span>)</span>
+<span id="cb8-10"><a href="#cb8-10" aria-hidden="true" tabindex="-1"></a>plt.show()</span></code><button title="Copy to Clipboard" class="code-copy-button"><i class="bi"></i></button></pre></div>
+<div class="cell-output cell-output-display">
+<div>
+<figure class="figure">
+<p><img src="index_files/figure-html/cell-8-output-1.png" width="589" height="411" class="figure-img"></p>
+</figure>
+</div>
+</div>
+</div>
+</section>
+</section>
+<section id="section-2" class="level1">
+<h1></h1>
+</section>
+<section id="section-3" class="level1">
+<h1></h1>
 <section id="결과를-살펴보고-왜-n-1로-나눈-것을-분산을-추정하는-지표로-사용하는-것이-타당한지-써주세요" class="level3">
 <h3 class="anchored" data-anchor-id="결과를-살펴보고-왜-n-1로-나눈-것을-분산을-추정하는-지표로-사용하는-것이-타당한지-써주세요">3. 결과를 살펴보고, 왜 n-1로 나눈 것을 분산을 추정하는 지표로 사용하는 것이 타당한지 써주세요!</h3>
 <p>분포를 보면, n-1로 나눈 분포에서 모분산을 나타낸 선이 더 가운데(무게 중심)에 있다는 것을 알 수 있다. 그래서 n-1로 나눈 것이 분산을 추정하는 지표로 사용되는게 타당하다.</p>
 
 
-</section>
 </section>
 </section>
 

diff --git a/docs/blog.html b/docs/blog.html
@@ -229,7 +229,7 @@ window.Quarto = {
 </a>
 </div>
 </div>
-<div class="quarto-post image-right" data-index="1" data-categories="bigdata" data-listing-date-sort="1722178800000" data-listing-file-modified-sort="1722261644449" data-listing-date-modified-sort="NaN" data-listing-reading-time-sort="1" data-listing-word-count-sort="113">
+<div class="quarto-post image-right" data-index="1" data-categories="bigdata" data-listing-date-sort="1722178800000" data-listing-file-modified-sort="1722296833979" data-listing-date-modified-sort="NaN" data-listing-reading-time-sort="2" data-listing-word-count-sort="305">
 <div class="thumbnail">
 <p><a href="./posts/hw4/index.html" class="no-external"></a></p><a href="./posts/hw4/index.html" class="no-external">
 <p class="card-img-top"><img src="posts\hw4\index_files\figure-html\cell-3-output-1.png"  class="thumbnail-image card-img"/></p>
